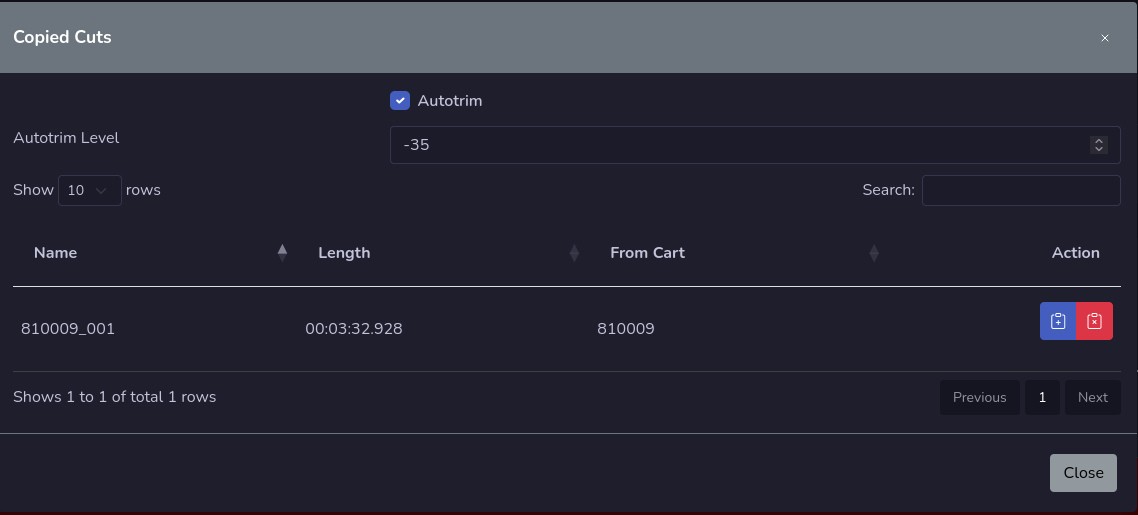
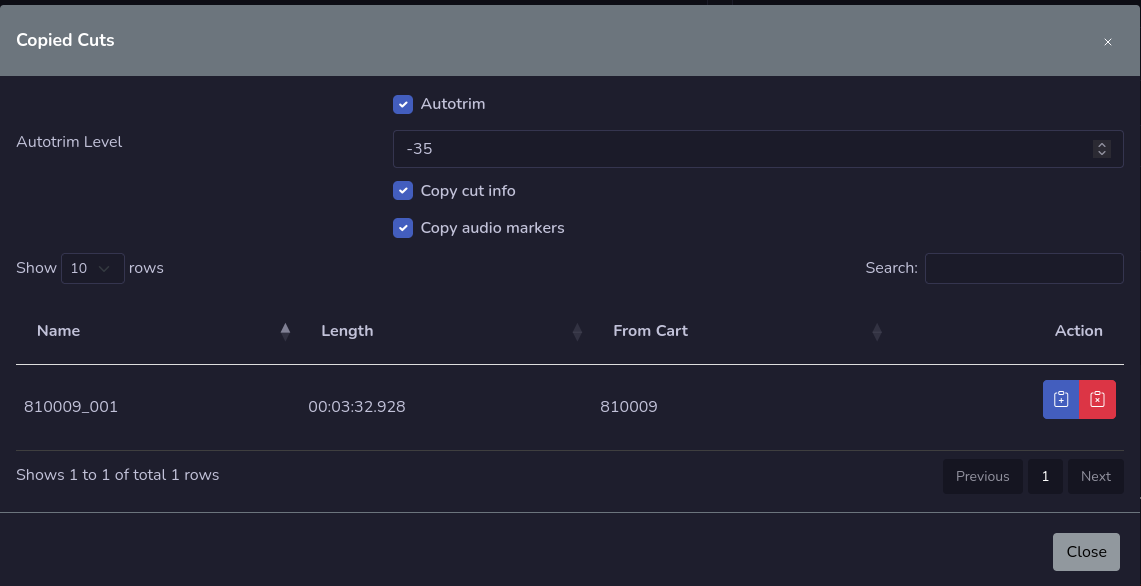
Add info about the paste cut info.

diff --git a/docs/audiocart.md b/docs/audiocart.md
@@ -22,6 +22,8 @@ You can copy a cut by pressing the grey copy button. This will add the cut infor
 
 A window will pop up and you can select what cut you would like to paste. If you would like to use autotrim, check that button and the correct level.
 
+You can also check if you would like to include cut info data and cut audio markers when you paste the cut.
+
 Press the blue paste button on the selected cut you would like to paste to the empty cut. The audio, markers and other cut data will be copied to the empty cut.
 
 The red button next to the copied cut will delete the copied cut data.
